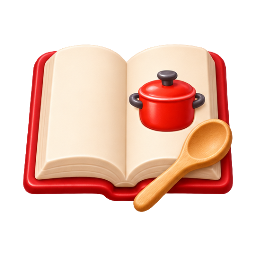
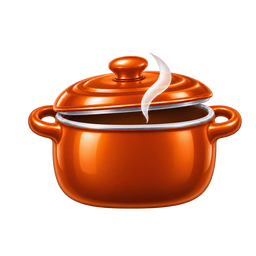
Recettes : icônes d'Aristide (onglet « Cuisiner », cocotte pour les recettes, 23 icônes de critères dans la fiche et les filtres)
Claude-Session: https://claude.ai/code/session_01BJG2Ty3BnFpAcdysjxCi67

diff --git a/lib/ecrans/recettes.dart b/lib/ecrans/recettes.dart
@@ -184,6 +184,7 @@ class FiltresRecettes extends StatelessWidget {
           CaseModale(
             key: ValueKey('valeur-$v'),
             texte: FiltreRecettes.libelle(v),
+            image: iconeCritere(v) == null ? null : _imageCritere(iconeCritere(v)!, 28),
             coche: valeurs.contains(v),
             onChange: (c) {
               maj(() => c ? valeurs.add(v) : valeurs.remove(v));
@@ -285,9 +286,15 @@ class EnTeteRecette extends StatelessWidget {
   Widget build(BuildContext context) {
     final r = recette;
     final reglable = onPersonnes != null && r.personnes != null;
-    final ligne = r.ligne(avecPour: !reglable);
-    final pastilles = [if (r.source != null) 'Recette ${r.source}', ...r.pastilles];
     final n = personnes ?? r.personnes ?? 1;
+    // 20/11/2026 (Aristide) : ses icônes devant le nombre de personnes, les temps, la difficulté et les critères.
+    final infos = <(String?, String)>[
+      if (!reglable && r.pour != null) ('nombre-personnes', 'Pour ${r.pour}'),
+      if (r.tempsPreparation case final t?) ('temps-preparation', 'Préparation ${duree(t)}'),
+      if (r.tempsCuisson case final t?) t == 0 ? ('sans-cuisson', 'Sans cuisson') : ('temps-cuisson', 'Cuisson ${duree(t)}'),
+      if (r.difficulte case final d?) (iconeCritere(d), d),
+    ];
+    final pastilles = r.pastilles;
     Widget bouton(IconData i, String cle, String aide, int vers) => IconButton(
           key: ValueKey(cle),
           tooltip: aide,
@@ -296,29 +303,91 @@ class EnTeteRecette extends StatelessWidget {
           icon: Icone(i, size: 24, color: Charte.cadre),
         );
     return Column(crossAxisAlignment: CrossAxisAlignment.stretch, children: [
+      if (r.source != null)
+        Padding(
+          padding: const EdgeInsets.only(top: 8),
+          child: Align(alignment: Alignment.centerLeft, child: Pastille('Recette ${r.source}', petite: true, couleur: Charte.cadre)),
+        ),
       if (reglable)
         Padding(
-          padding: const EdgeInsets.only(top: 6),
+          padding: const EdgeInsets.only(top: 4),
           child: Row(children: [
+            _imageCritere('nombre-personnes', 24),
+            const SizedBox(width: 6),
             Text('Pour', style: Charte.texte(15, gras: true)),
             bouton(Icons.remove_circle_outline, 'moins-personnes', 'Moins de personnes', n - 1),
             Text(r.pourN(n), key: const ValueKey('nombre-personnes'), style: Charte.texte(15, gras: true)),
             bouton(Icons.add_circle_outline, 'plus-personnes', 'Plus de personnes', n + 1),
           ]),
         ),
-      if (ligne.isNotEmpty)
+      if (infos.isNotEmpty)
         Padding(
-          padding: EdgeInsets.only(top: reglable ? 0 : 10),
-          child: Text(ligne, key: const ValueKey('ligne-recette'), style: Charte.texte(15, gras: true)),
+          padding: EdgeInsets.only(top: reglable ? 0 : 8),
+          child: Wrap(key: const ValueKey('ligne-recette'), spacing: 14, runSpacing: 4, children: [
+            for (final (icone, texte) in infos)
+              Row(mainAxisSize: MainAxisSize.min, children: [
+                if (icone != null) ...[_imageCritere(icone, 24), const SizedBox(width: 5)],
+                Text(texte, style: Charte.texte(15, gras: true)),
+              ]),
+          ]),
         ),
       if (pastilles.isNotEmpty)
         Padding(
-          padding: const EdgeInsets.only(top: 6),
-          child: Wrap(spacing: 5, runSpacing: 4, children: [
-            for (final p in pastilles) Pastille(p, petite: true, couleur: p.startsWith('Recette ') ? Charte.cadre : null),
-          ]),
+          padding: const EdgeInsets.only(top: 8),
+          child: Wrap(spacing: 6, runSpacing: 6, children: [for (final p in pastilles) PastilleCritere(p)]),
         ),
     ]);
+  }
+}
+
+/// Icône d'Aristide d'une valeur de critère (assets/recettes/criteres/), ou null.
+String? iconeCritere(String valeur) => switch (valeur) {
+      '€' => '1-euro',
+      '€€' => '2-euros',
+      '€€€' => '3-euros',
+      'Facile' => 'facile',
+      'Moyen' => 'moyen',
+      'Difficile' => 'difficile',
+      'Avancé' => 'avance',
+      'Sans cuisson' => 'sans-cuisson',
+      'Four' => 'four',
+      'Plaque' => 'plaque',
+      'Cocotte-minute' => 'cocotte-minute',
+      'Végétarien' => 'vegetarien',
+      'Végétalien' => 'vegetalien',
+      'Sans gluten' => 'sans-gluten',
+      'Sans lactose' => 'sans-lactose',
+      'Printemps' => 'printemps',
+      'Été' => 'ete',
+      'Automne' => 'automne',
+      'Hiver' => 'hiver',
+      'Toute l\'année' => 'toute-annee',
+      _ => null,
+    };
+
+Widget _imageCritere(String nom, double taille) =>
+    Image.asset('assets/recettes/criteres/$nom.png', width: taille, height: taille, filterQuality: FilterQuality.medium);
+
+/// Une pastille de critère : l'icône d'Aristide (s'il y en a une) et le libellé.
+class PastilleCritere extends StatelessWidget {
+  const PastilleCritere(this.valeur, {super.key});
+  final String valeur;
+
+  @override
+  Widget build(BuildContext context) {
+    final icone = iconeCritere(valeur);
+    return Container(
+      padding: EdgeInsets.fromLTRB(icone == null ? 8 : 4, 2, 8, 2),
+      decoration: BoxDecoration(
+        color: Charte.fondBandeau,
+        borderRadius: BorderRadius.circular(14),
+        border: Border.all(color: Charte.separateurZone),
+      ),
+      child: Row(mainAxisSize: MainAxisSize.min, children: [
+        if (icone != null) ...[_imageCritere(icone, 20), const SizedBox(width: 4)],
+        Text(valeur, style: Charte.texte(13, gras: true)),
+      ]),
+    );
   }
 }
 

diff --git a/lib/composants/composants.dart b/lib/composants/composants.dart
@@ -1825,8 +1825,12 @@ Future<bool> modale(
 /// comme les zones de saisie et les listes déroulantes ; [encadree] faux pour les cases d'un choix parmi
 /// plusieurs éléments (articles lus dans un mail…) ou d'un [GroupeCases].
 class CaseModale extends StatelessWidget {
-  const CaseModale({super.key, required this.texte, this.aide, required this.coche, required this.onChange, this.encadree = true});
+  const CaseModale(
+      {super.key, required this.texte, this.aide, required this.coche, required this.onChange, this.encadree = true, this.image});
   final String texte;
+
+  /// Image devant le texte (icônes des critères de recette, 20/11/2026).
+  final Widget? image;
   final String? aide;
   final bool coche;
   final ValueChanged<bool> onChange;
@@ -1844,6 +1848,7 @@ class CaseModale extends StatelessWidget {
           children: [
             CaseACocher(coche: coche, taille: 24),
             const SizedBox(width: 12),
+            if (image case final i?) ...[i, const SizedBox(width: 8)],
             Expanded(
               child: Column(
                 crossAxisAlignment: CrossAxisAlignment.start,

diff --git a/lib/composants/icone.dart b/lib/composants/icone.dart
@@ -27,6 +27,13 @@ class Icone extends StatelessWidget {
         child: SizedBox(width: t, height: t, child: symbole.$2 ? Transform.flip(flipX: true, child: image) : image),
       );
     }
+    // 20/11/2026 (Aristide) : sa cocotte pour tout ce qui touche aux recettes.
+    if (icon == Icons.restaurant_menu_outlined) {
+      return Semantics(
+        label: semanticLabel,
+        child: Image.asset('assets/recettes/recettes-de-cuisine.png', width: t, height: t, filterQuality: FilterQuality.medium),
+      );
+    }
     final nom = icon == null ? null : iconesNoto[icon];
     if (nom == null) return Icon(icon, size: size, color: color, shadows: shadows, semanticLabel: semanticLabel);
     return Semantics(
@@ -67,6 +74,7 @@ class ImageEmplettes extends StatelessWidget {
   static String pourIcone(IconData? i) => switch (i) {
         Icons.checklist => 'liste_crayon',
         Icons.shopping_cart_outlined => 'liste_chariot',
+        Icons.restaurant_menu_outlined => 'cuisiner',
         _ => 'complet',
       };
 

diff --git a/lib/ecrans/coquille.dart b/lib/ecrans/coquille.dart
@@ -73,10 +73,7 @@ class BarreOnglets extends StatelessWidget {
                             top: 0,
                             child: i == Nav.gerer
                                 ? Icone(entrees[i].$1, size: 56, color: Charte.cadre)
-                                : i == Nav.cuisiner
-                                    // En attendant l'image d'Aristide (produits et casserole), son image des recettes.
-                                    ? Image.asset('assets/recettes/recettes-de-cuisine.png', width: 52, height: 52, filterQuality: FilterQuality.medium)
-                                    : ImageEmplettes(i == 0 ? 'complet' : ImageEmplettes.pourIcone(entrees[i].$1), taille: 60)),
+                                : ImageEmplettes(i == 0 ? 'complet' : ImageEmplettes.pourIcone(entrees[i].$1), taille: 60)),
                         Positioned(
                           bottom: 1,
                           child: Text(entrees[i].$2,

diff --git a/lib/donnees/recette_ingredients.dart b/lib/donnees/recette_ingredients.dart
@@ -92,7 +92,7 @@ class RecetteLue {
   /// Les pastilles de critères : régimes, saison (« Toute l'année » si les quatre), coût, cuisson, occasions.
   List<String> get pastilles => [
         ...regimes,
-        if (saisons.length >= 4) 'Toute l\'année' else if (saisons.isNotEmpty) saisons.join(' · '),
+        if (saisons.length >= 4) 'Toute l\'année' else ...saisons,
         if (cout != null) cout!,
         // « Sans cuisson » est déjà dans l'en-tête quand le temps de cuisson vaut 0.
         for (final c in cuissons)

diff --git a/ARCHITECTURE.md b/ARCHITECTURE.md
@@ -44,7 +44,7 @@ derniers messages, et ne sait rien lire, car tout est chiffré par foyer.
 | `lib/donnees/messages.dart`, `notifications_telephone.dart`, `envoi.dart` | messages du foyer (ntfy, Firebase), mails, tickets PDF |
 | `lib/donnees/import_texte.dart`, `recette_ingredients.dart` | lecture d'une liste collée, d'une recette ; `RecetteLue` (critères, temps, `ingredientsPour(n)`), `FiltreRecettes` (recherche titre + ingrédients, « ou » dans un critère, « et » entre critères), `ajusterQuantite` |
 | `lib/ecrans/travail.dart` + `travail/*.dart` | écrans de travail : nouvelle liste, préparation, ligne d'article, promotion, courses, consultation |
-| `lib/ecrans/recettes.dart` | le livre de recettes : onglet « Cuisiner » (`Nav.avecCuisiner`, démonstration d'abord : `Nav.cuisiner`/`Nav.gerer`/`nbOnglets` en dépendent), sinon Gérer › Courses › Catalogue des recettes et le bouton de l'en-tête (`EnTeteFenetre.chercherRecette`, fixé dans `main.dart`). Filtres (`FiltresRecettes`), fiche à onglets Ingrédients / Recette avec − / + personnes, « Ajouter aux courses » (`ajouterAuxCourses` → `cocherIngredientsRecette` de `travail/preparation.dart`, commun avec le bouton « Recette » de la préparation). Données : `outils/recettes/vers_application.py` → `assets/recettes/recettes.json` |
+| `lib/ecrans/recettes.dart` | le livre de recettes : onglet « Cuisiner » (`Nav.avecCuisiner`, démonstration d'abord : `Nav.cuisiner`/`Nav.gerer`/`nbOnglets` en dépendent), sinon Gérer › Courses › Catalogue des recettes et le bouton de l'en-tête (`EnTeteFenetre.chercherRecette`, fixé dans `main.dart`). Filtres (`FiltresRecettes`), fiche à onglets Ingrédients / Recette avec − / + personnes, « Ajouter aux courses » (`ajouterAuxCourses` → `cocherIngredientsRecette` de `travail/preparation.dart`, commun avec le bouton « Recette » de la préparation). Données : `outils/recettes/vers_application.py` → `assets/recettes/recettes.json`. Icônes d'Aristide : critères `assets/recettes/criteres/` (`iconeCritere`, sources `outils/recettes/icones/`), cocotte `assets/recettes/recettes-de-cuisine.png` (toute `Icons.restaurant_menu_outlined`, cf. `Icone`), onglet `assets/emplettes/cuisiner.png` |
 | `lib/composants/recherche.dart`, `micro.dart` | champ de recherche d'article ; micro de dictée de toutes les zones de recherche (Android et web, `speech_to_text`) |
 | `lib/ecrans/console_*.dart`, `editeur_catalogue.dart`, `administration*.dart` | console Windows (catalogue, recettes, serveur) |
 | `outils/fenetre_editeur.py` | fenêtre de la console (taille, redimensionnable, largeur minimum reçue de Dart par le canal `emplettes/fenetre` : menu 270/64 + 1 + 820) |
